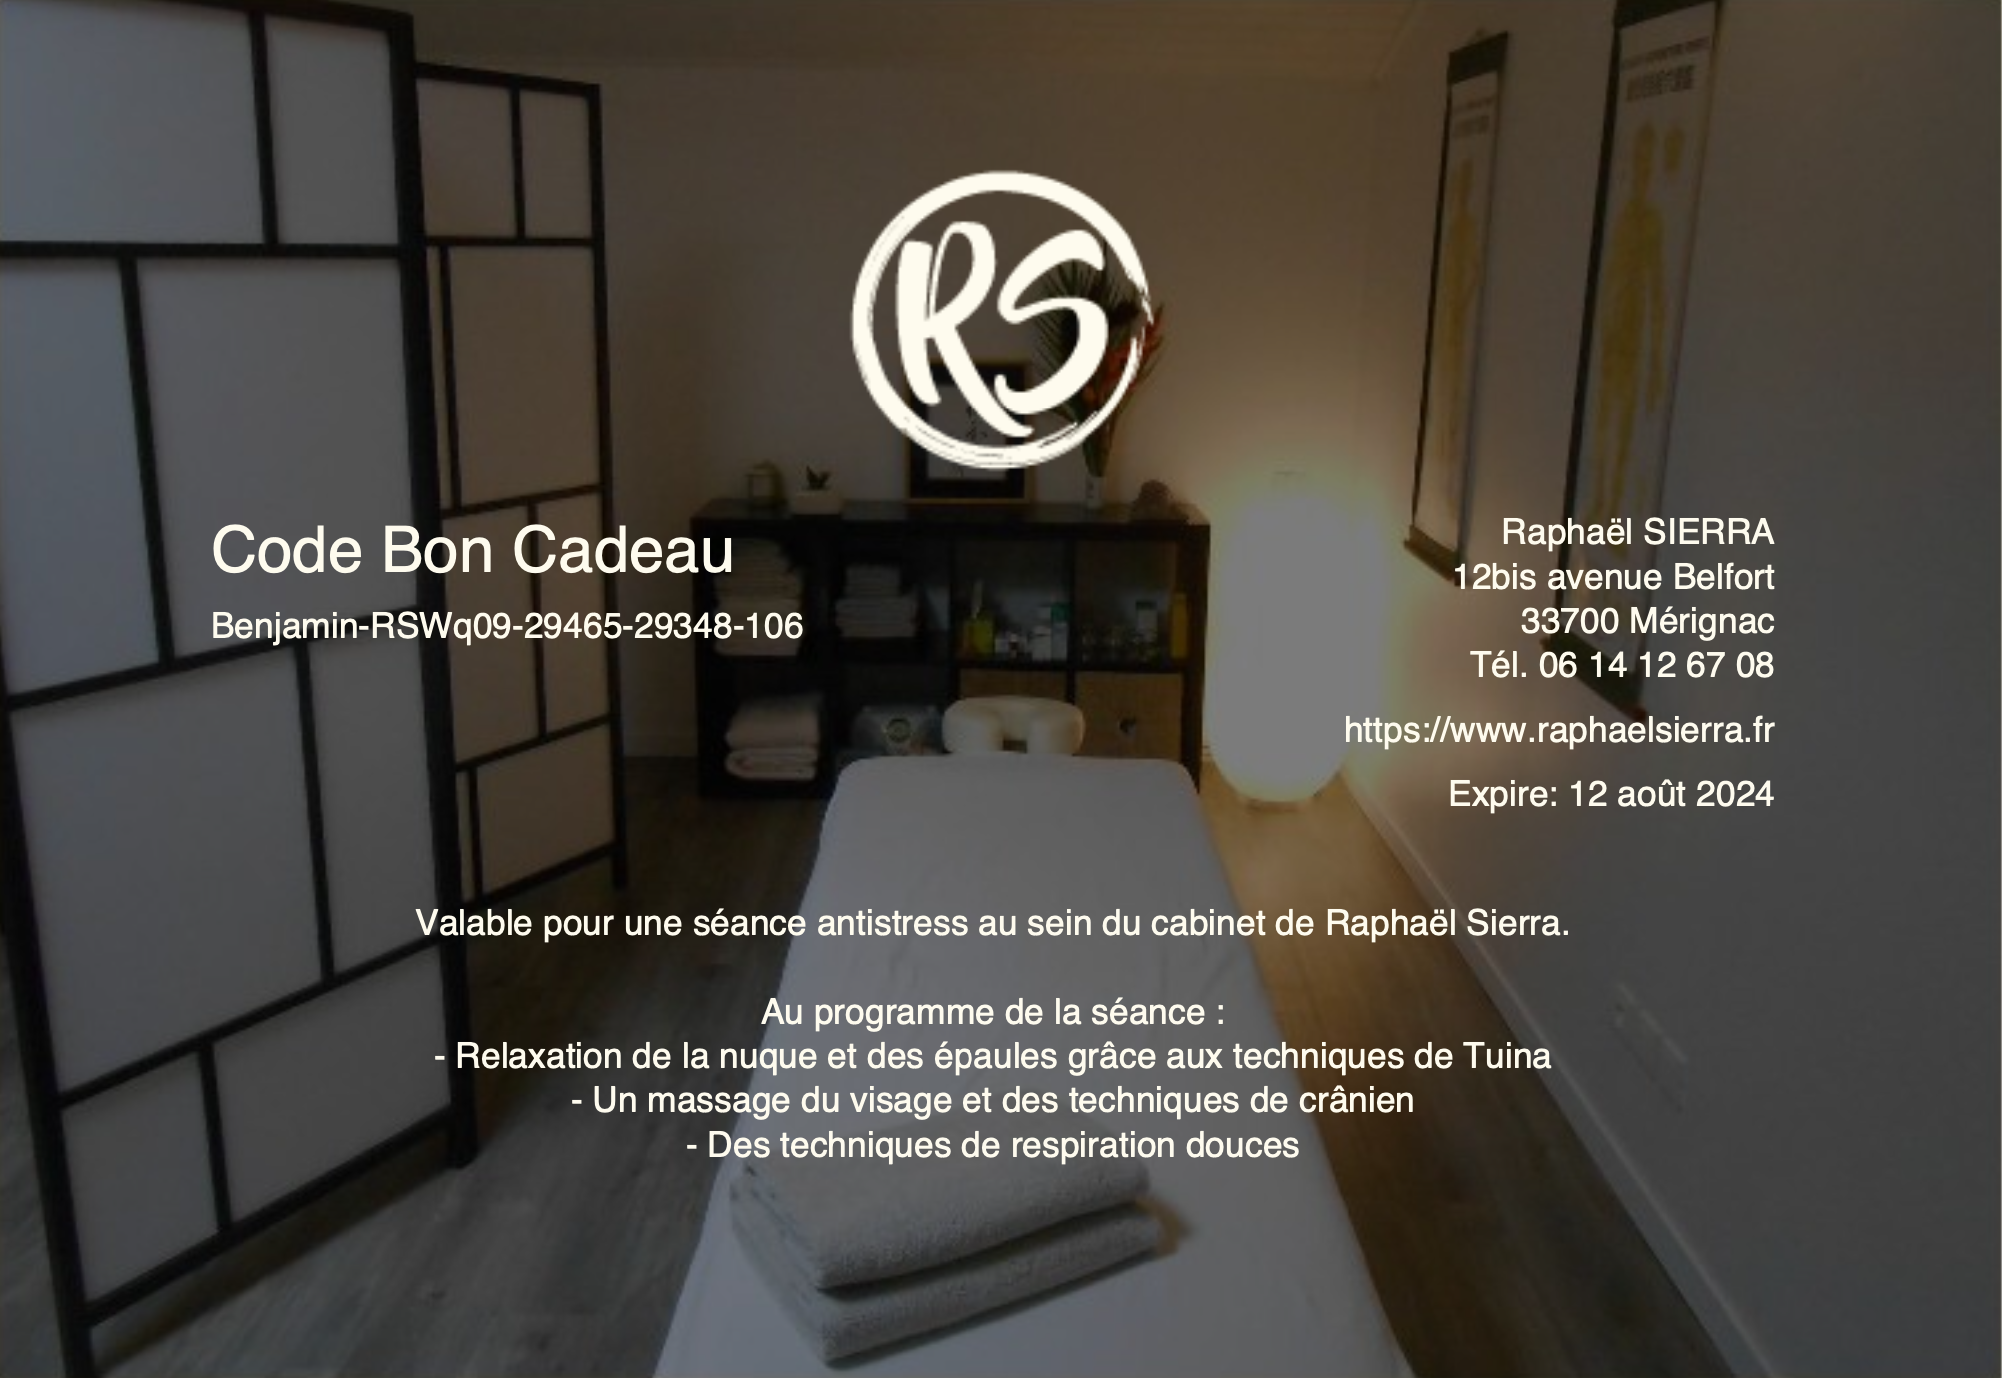
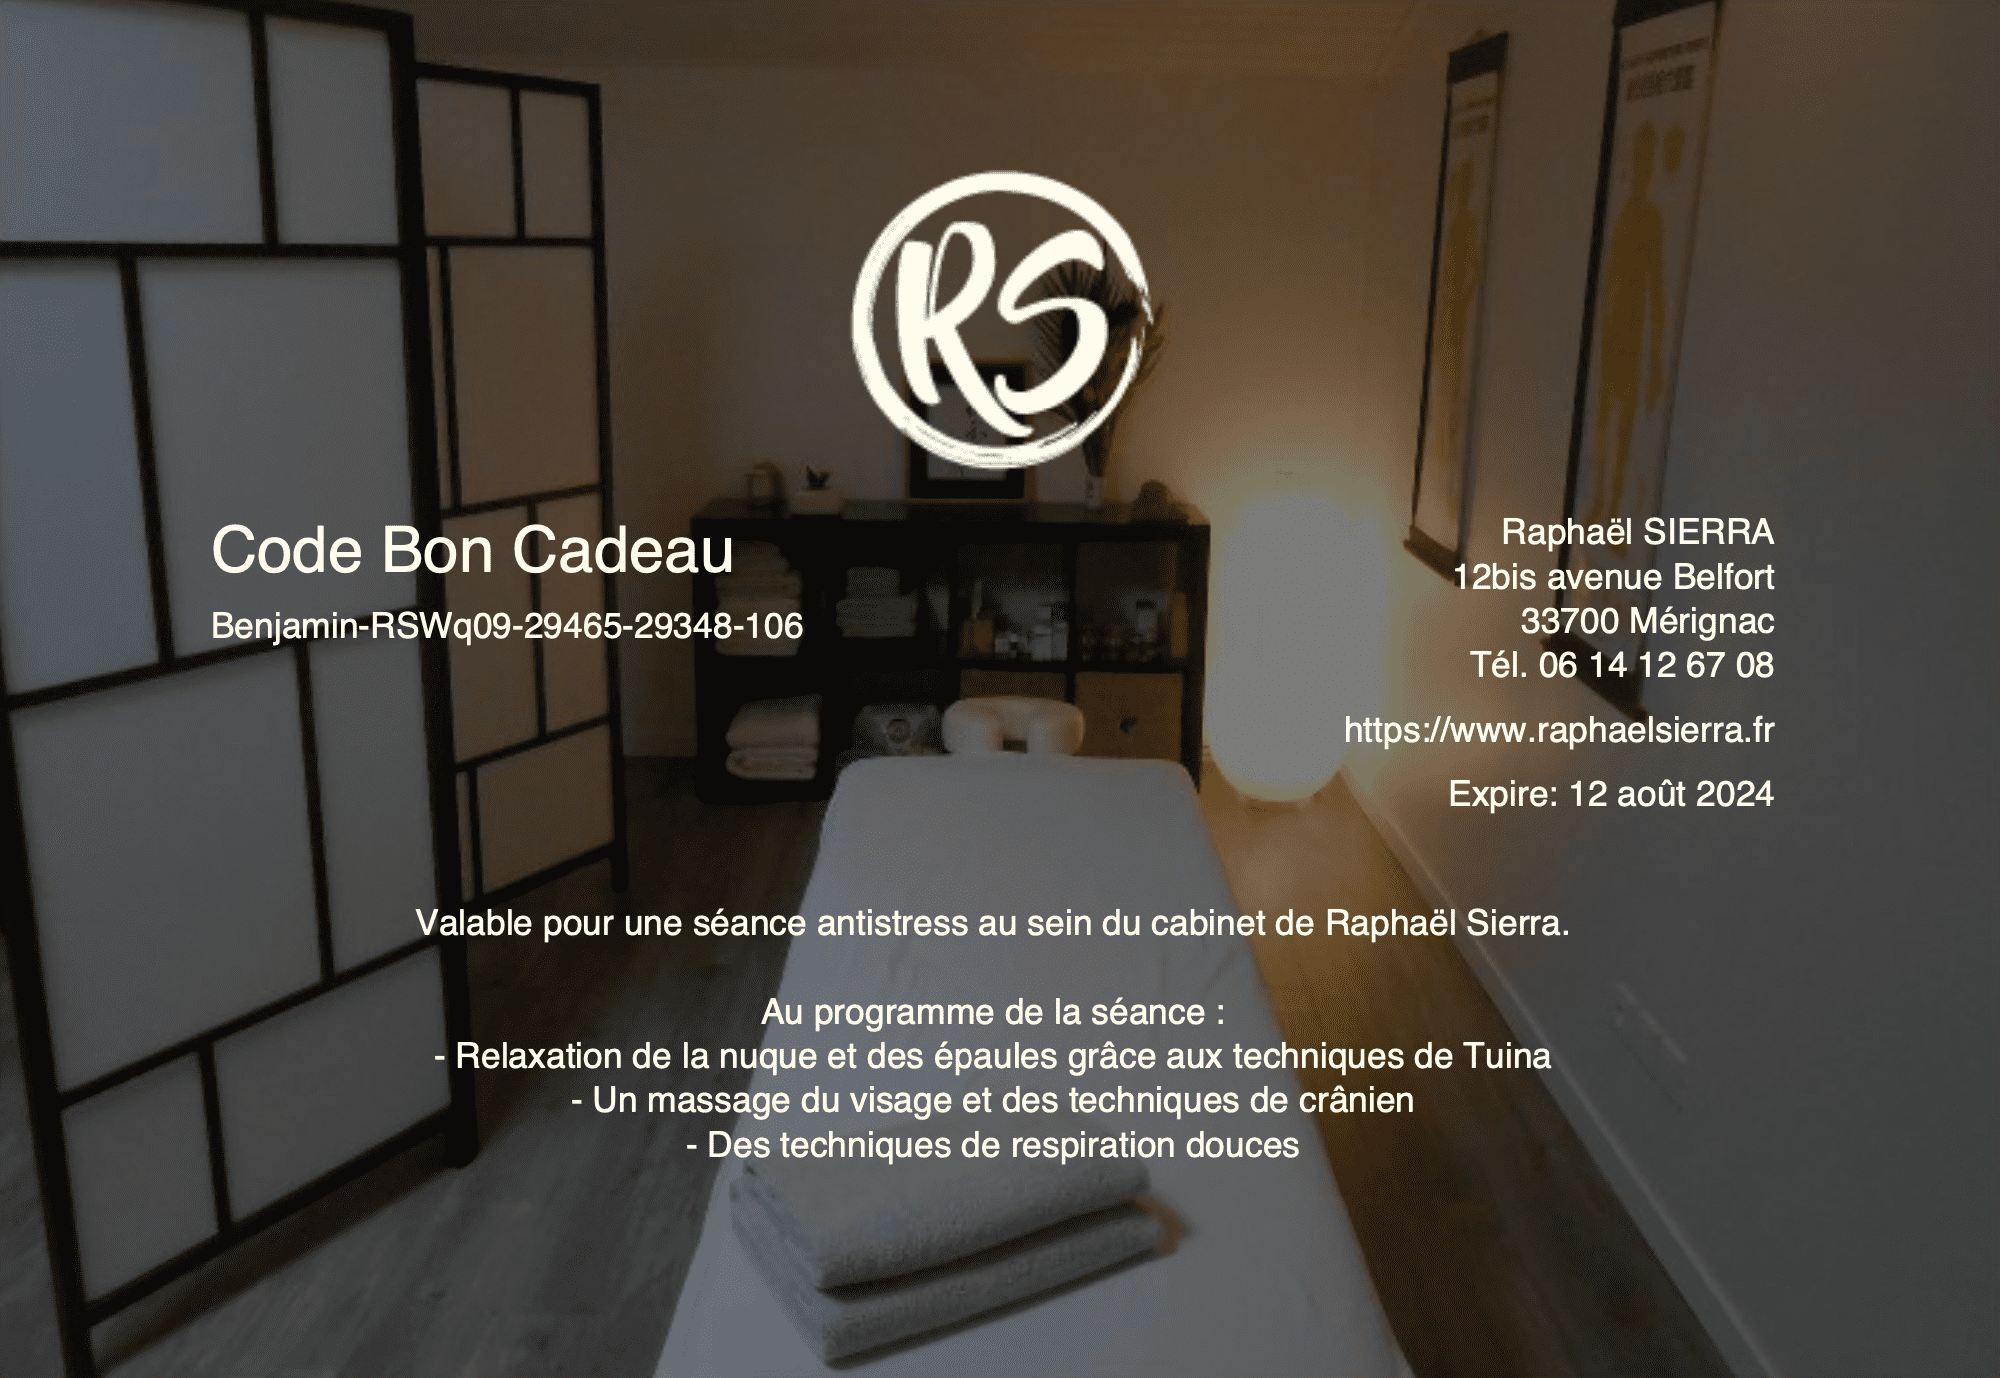
Compressed image to fastened the load

diff --git a/src/components/Gift/Gift.tsx b/src/components/Gift/Gift.tsx
@@ -4,6 +4,6 @@ const Gift = () => {
   return (
     <img src={giftImg} alt="" />
   );
-}
+};
 
 export default Gift;
